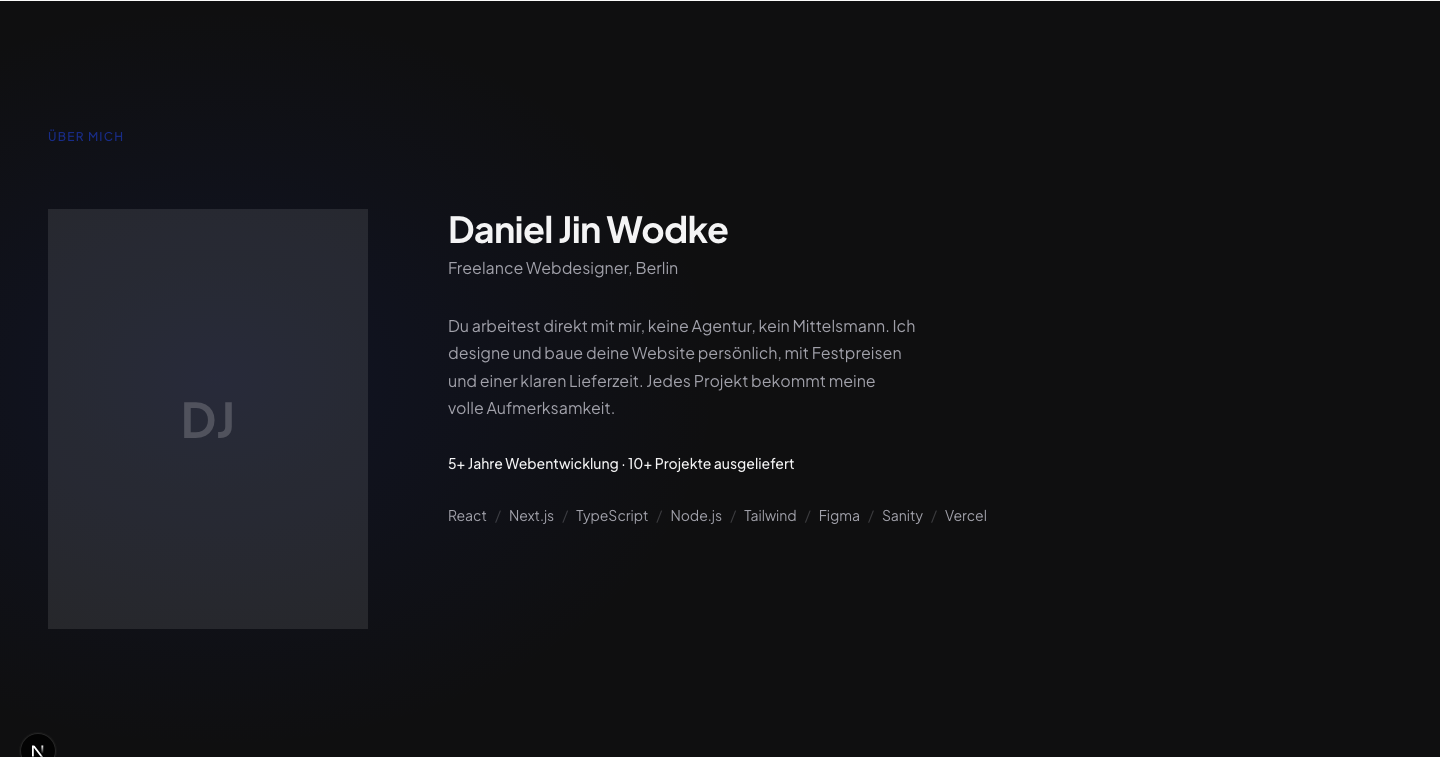
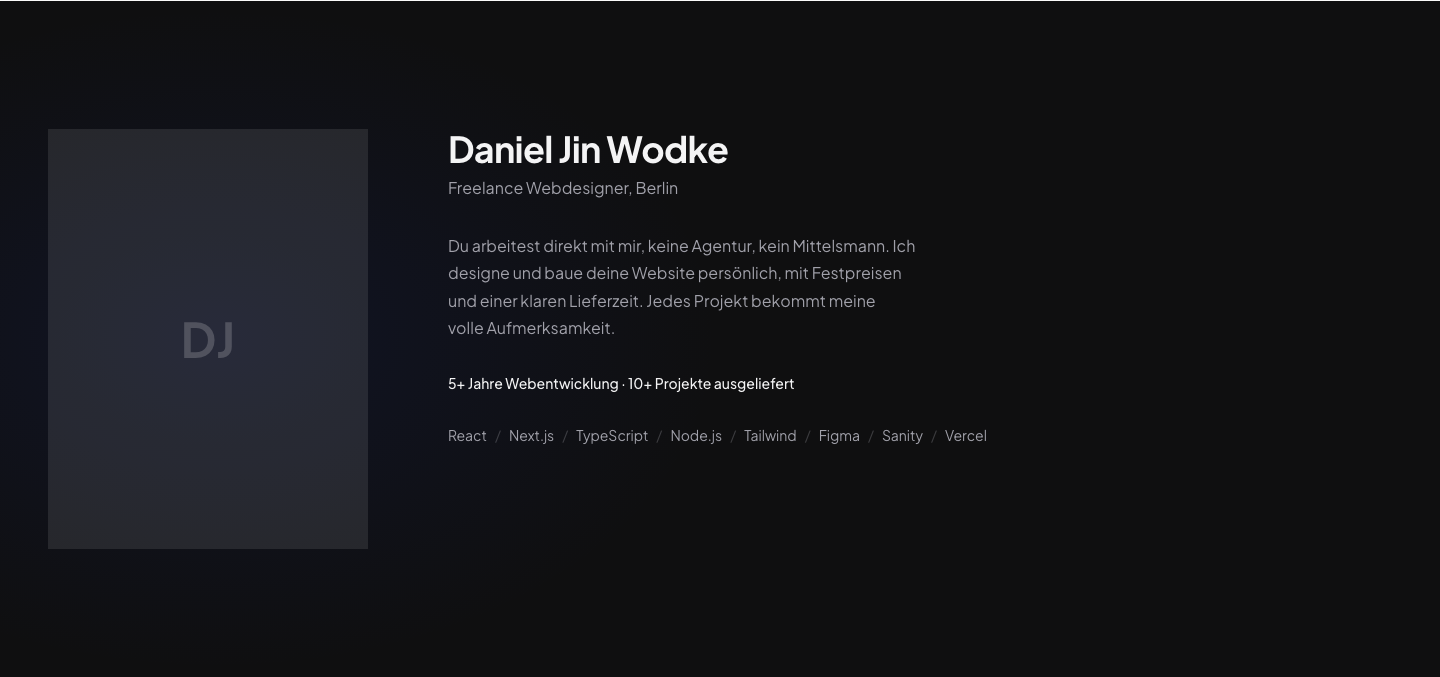
refactor: remove eyebrows and stripe textures per impeccable craft-floor
- Remove all 6 section eyebrow labels (LEISTUNGEN, REFERENZEN, etc.)
  per impeccable ban: headings carry their own weight
- Remove decorative stripe textures from Guarantee and Pricing sections
  per craft-floor ban on repeating-linear-gradient stripes
- Hero panel stripes kept (justified by the wireframe browser context)
- Clean up unused tWork import from ProjectsSection

diff --git a/components/sections/PricingSection.tsx b/components/sections/PricingSection.tsx
@@ -20,16 +20,7 @@ function PricingSectionInner({ services }: PricingSectionProps) {
 
   return (
     <MotionSection id="pricing" className="relative py-24 md:py-32 bg-surface-dark overflow-hidden">
-      <div className="absolute inset-0 opacity-20" style={{
-        background: 'linear-gradient(180deg, transparent 0%, rgba(255,255,255,0.03) 100%)',
-        maskImage: 'repeating-linear-gradient(90deg, black, black 5px, transparent 5px, transparent 11px)',
-        WebkitMaskImage: 'repeating-linear-gradient(90deg, black, black 5px, transparent 5px, transparent 11px)',
-      }} />
-
       <div className="relative px-6 md:px-8 lg:px-12 xl:px-[max(calc((100vw-90rem)/2+3rem),3rem)]">
-        <p className="text-xs font-medium uppercase tracking-widest text-accent/70 mb-4">
-          {t('eyebrow')}
-        </p>
         <h2 className="text-3xl md:text-4xl font-bold text-on-dark leading-[1.1] tracking-[-0.02em] max-w-lg mb-16 md:mb-20">
           {t('heading')}
         </h2>

diff --git a/components/sections/GuaranteeSection.tsx b/components/sections/GuaranteeSection.tsx
@@ -38,25 +38,12 @@ export function GuaranteeSection() {
         }}
       />
 
-      {/* Subtle radial glow for depth */}
+      {/* Radial glow for depth */}
       <div
         className="absolute inset-0 pointer-events-none"
         style={{
           background:
             'radial-gradient(ellipse 70% 60% at 20% 40%, rgba(74,108,247,0.25), transparent 60%)',
-        }}
-      />
-
-      {/* Vertical stripe texture (echoes hero panel) */}
-      <div
-        className="absolute inset-0 opacity-20"
-        style={{
-          maskImage:
-            'repeating-linear-gradient(90deg, black, black 5px, transparent 5px, transparent 11px)',
-          WebkitMaskImage:
-            'repeating-linear-gradient(90deg, black, black 5px, transparent 5px, transparent 11px)',
-          background:
-            'linear-gradient(180deg, rgba(255,255,255,0.08) 0%, transparent 100%)',
         }}
       />
 

diff --git a/components/sections/ProjectsSection.tsx b/components/sections/ProjectsSection.tsx
@@ -54,7 +54,6 @@ function ProjectsSectionInner({
   testimonials,
 }: ProjectsSectionProps) {
   const t = useTranslations('Projects')
-  const tWork = useTranslations('Work')
   if (!projects || projects.length === 0) return null
 
   const testimonialByCompany = new Map<
@@ -72,9 +71,6 @@ function ProjectsSectionInner({
     <MotionSection id="work" className="py-24 md:py-32 bg-surface-subtle">
       <div className="px-6 md:px-8 lg:px-12 xl:px-[max(calc((100vw-90rem)/2+3rem),3rem)]">
         {/* Eyebrow + heading */}
-        <p className="text-xs font-medium uppercase tracking-widest text-accent mb-4">
-          {tWork('eyebrow')}
-        </p>
         <h2 className="text-3xl md:text-4xl font-bold text-primary leading-[1.1] tracking-[-0.02em] mb-16 md:mb-20">
           {t('heading')}
         </h2>

diff --git a/components/sections/AboutSection.tsx b/components/sections/AboutSection.tsx
@@ -36,11 +36,6 @@ export function AboutSection({ settings, aboutPhotoUrl }: AboutSectionProps) {
       />
 
       <div className="relative px-6 md:px-8 lg:px-12 xl:px-[max(calc((100vw-90rem)/2+3rem),3rem)]">
-        {/* Eyebrow */}
-        <p className="text-xs font-medium uppercase tracking-widest text-accent/70 mb-12 md:mb-16">
-          {t('eyebrow')}
-        </p>
-
         <div className="grid grid-cols-1 md:grid-cols-[auto_1fr] gap-12 md:gap-20 items-start">
           {/* Photo - larger for visual weight */}
           <div className="flex-shrink-0">

diff --git a/components/sections/FaqSection.tsx b/components/sections/FaqSection.tsx
@@ -21,9 +21,6 @@ export function FaqSection({ faqs }: FaqSectionProps) {
       <div className="px-6 md:px-8 lg:px-12 xl:px-[max(calc((100vw-90rem)/2+3rem),3rem)]">
         <div className="grid grid-cols-1 md:grid-cols-[1fr_2fr] gap-12 md:gap-16">
           <div>
-            <p className="text-xs font-medium uppercase tracking-widest text-accent mb-4">
-              {t('eyebrow')}
-            </p>
             <h2 className="text-3xl md:text-4xl font-bold text-primary leading-[1.1] tracking-[-0.02em]">
               {t('heading')}
             </h2>

diff --git a/components/sections/ServicesSection.tsx b/components/sections/ServicesSection.tsx
@@ -83,9 +83,6 @@ function ServicesSectionInner({ services, locale }: ServicesSectionProps) {
       <div className="px-6 md:px-8 lg:px-12 xl:px-[max(calc((100vw-90rem)/2+3rem),3rem)]">
         {/* Eyebrow + heading */}
         <div className="max-w-2xl mb-16 md:mb-20">
-          <p className="text-xs font-medium uppercase tracking-widest text-accent mb-4">
-            {t('eyebrow')}
-          </p>
           <h2 className="text-3xl md:text-4xl font-bold text-primary leading-[1.1] tracking-[-0.02em]">
             {t('heading')}
           </h2>

diff --git a/components/sections/ContactSection.tsx b/components/sections/ContactSection.tsx
@@ -67,9 +67,6 @@ export function ContactSection() {
         <div className="grid grid-cols-1 md:grid-cols-2 gap-16 md:gap-24">
           {/* Left: heading + process */}
           <div>
-            <p className="text-xs font-medium uppercase tracking-widest text-accent/70 mb-4">
-              {t('eyebrow')}
-            </p>
             <h2 className="text-3xl md:text-4xl font-bold text-on-dark leading-[1.1] tracking-[-0.02em] mb-4">
               {t('heading')}
             </h2>
